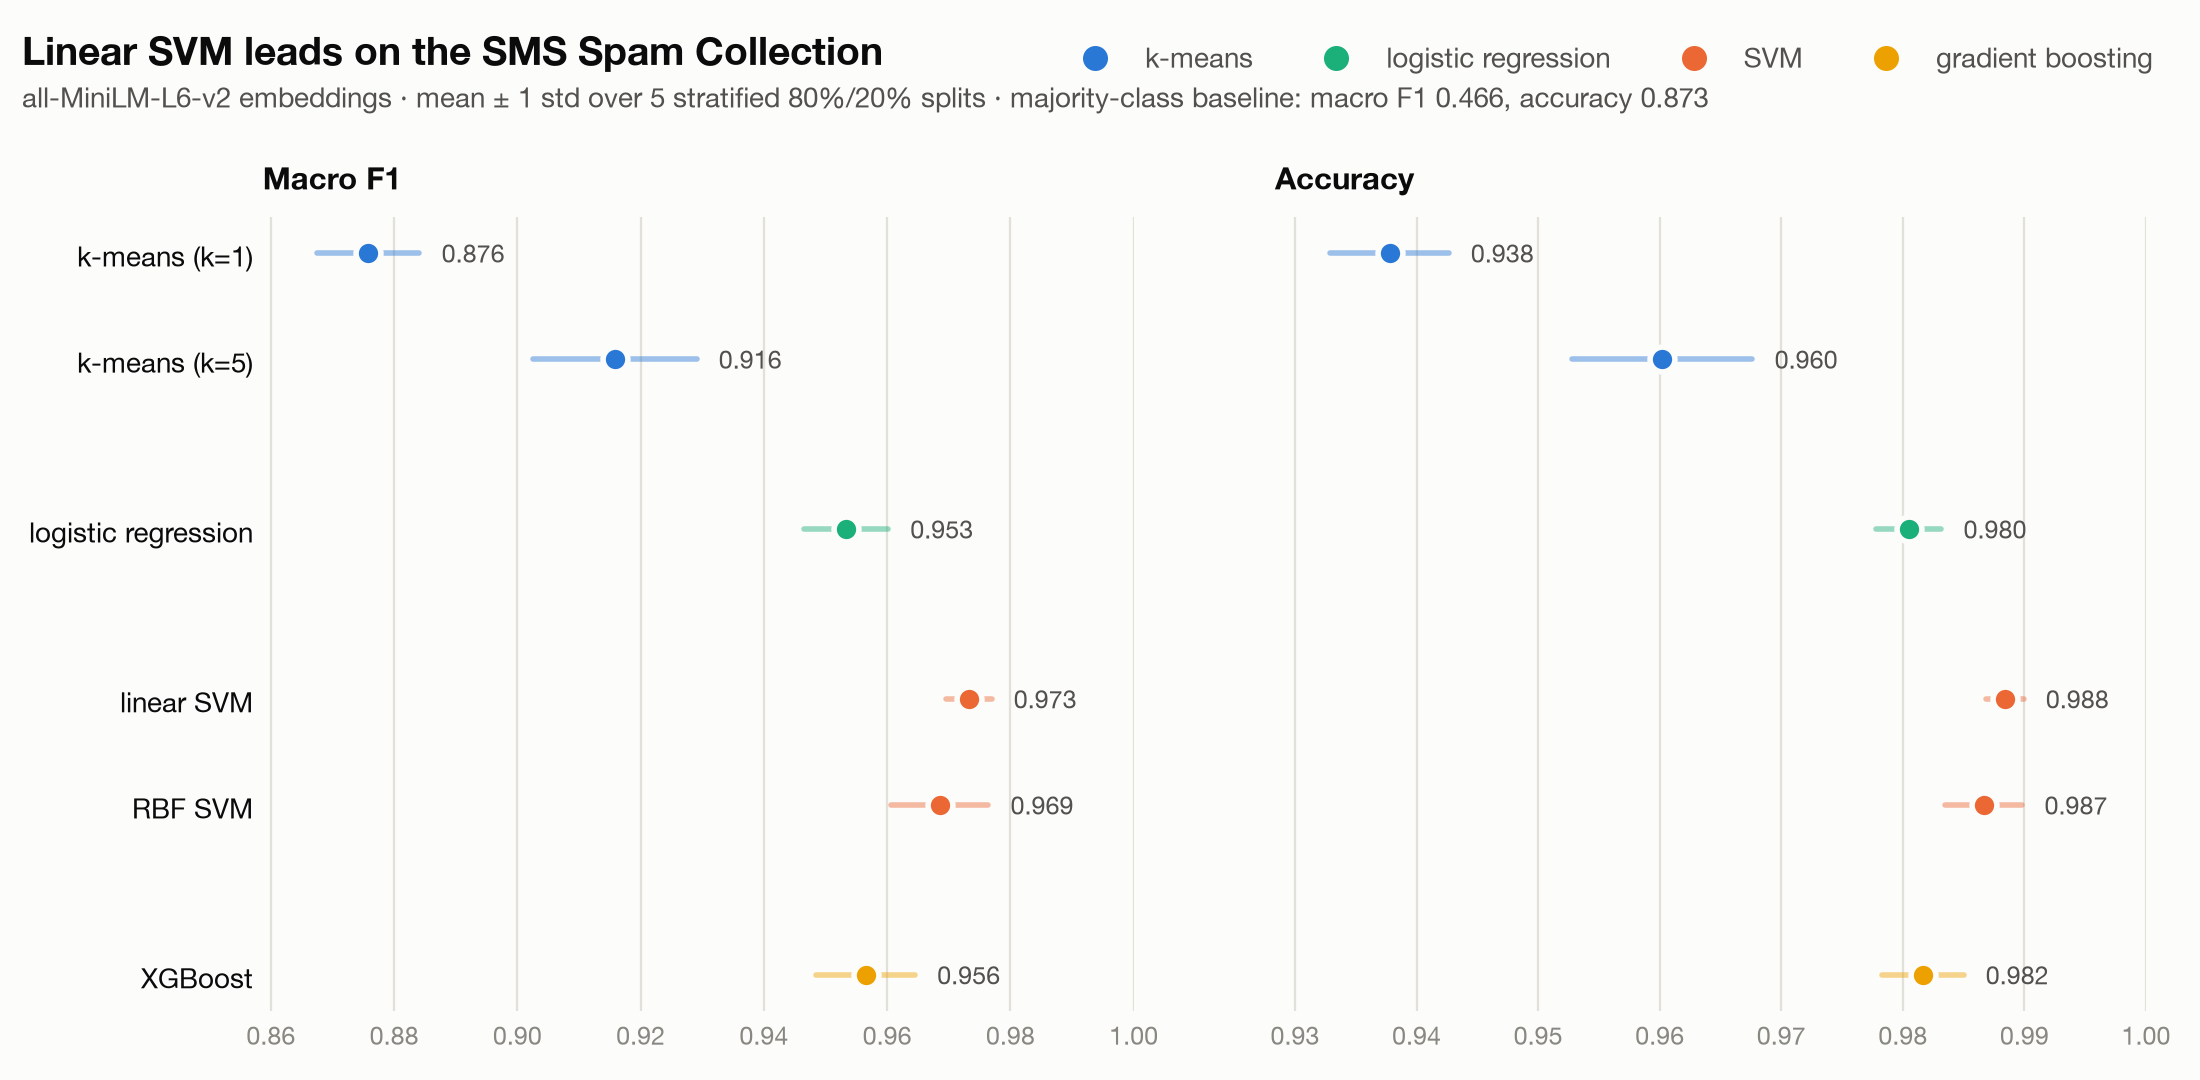
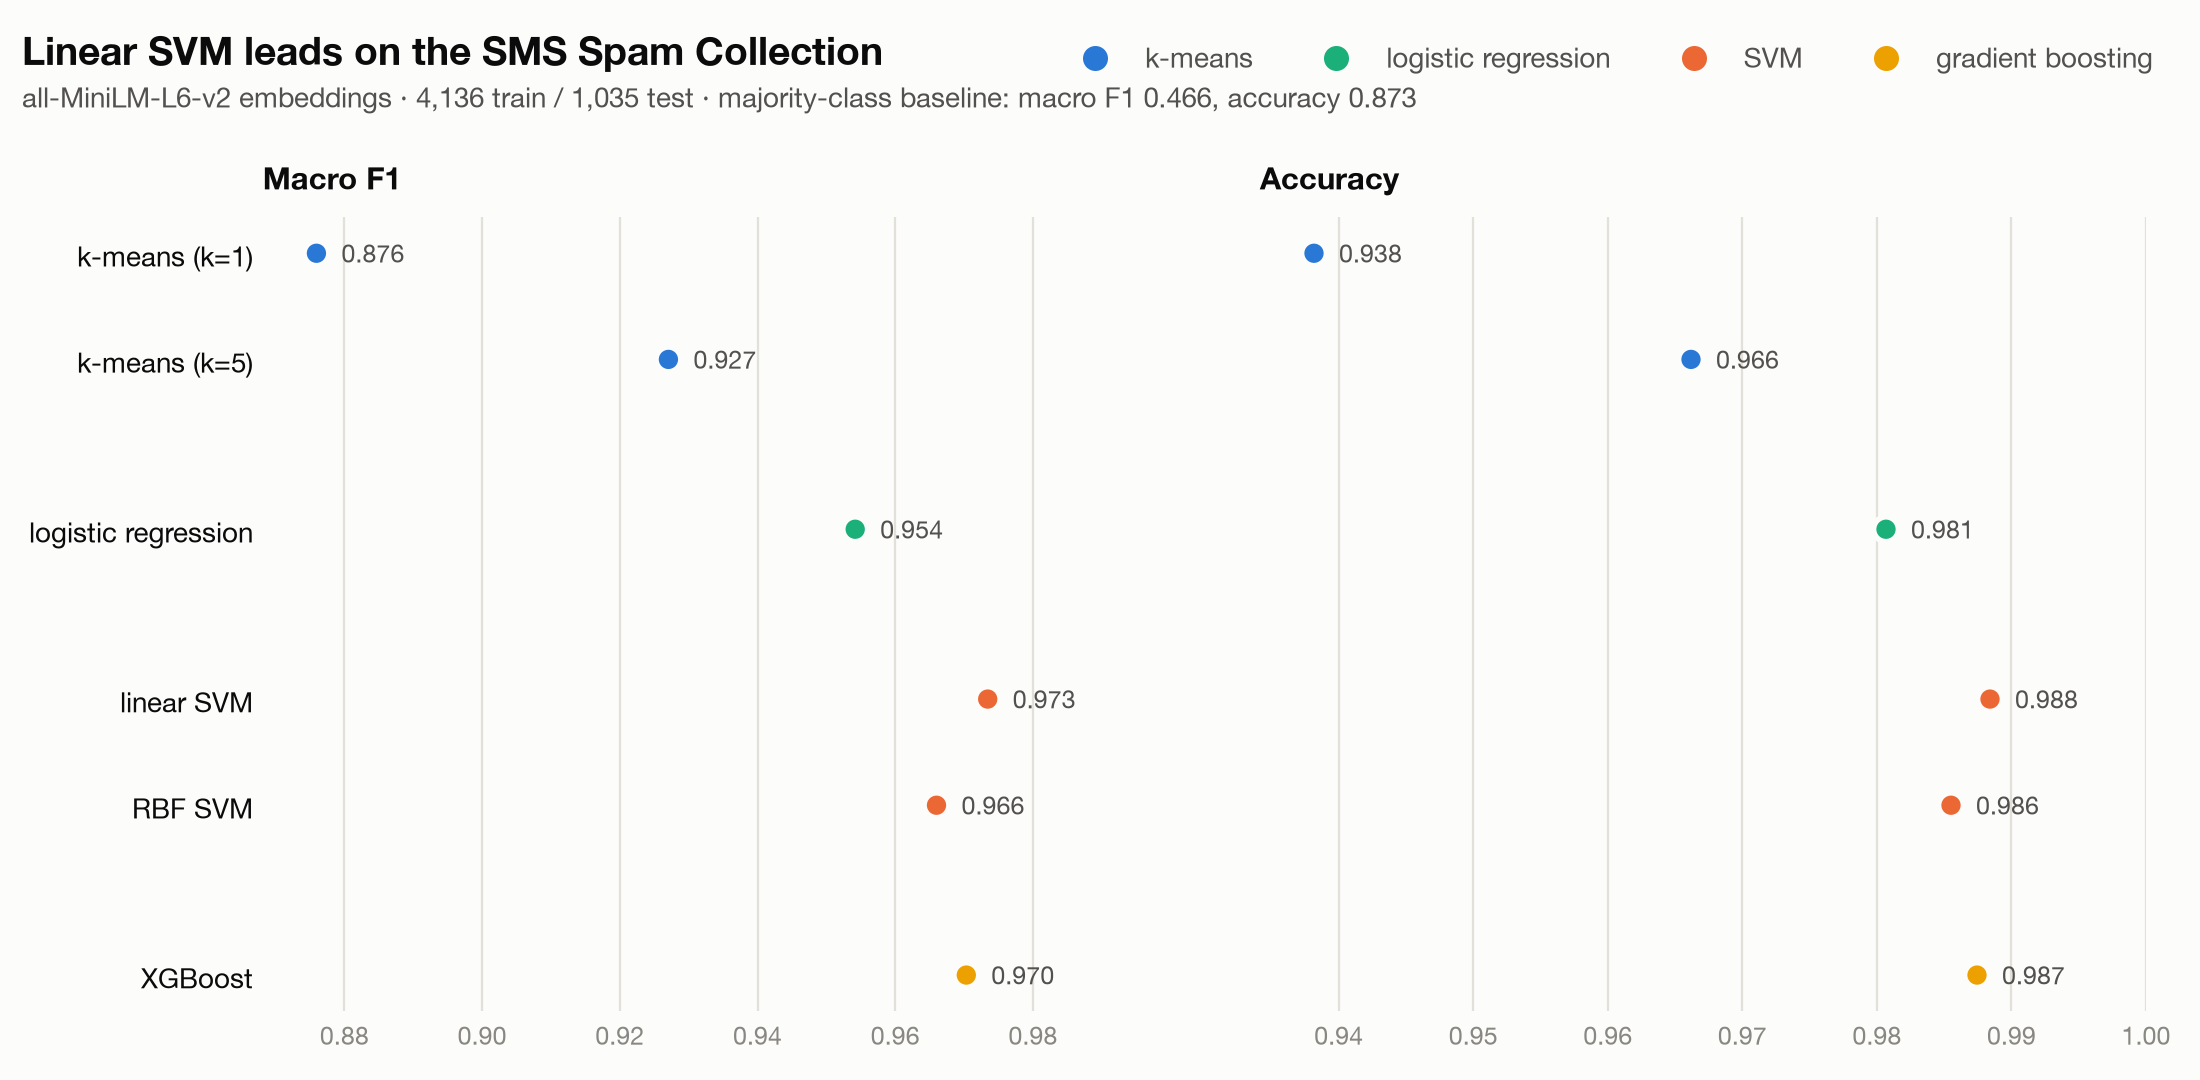
Add Emotion dataset and fixed train/test splits
- Each dataset's download.py now writes data/train.parquet and
  data/test.parquet with text and label columns, so experiment.py only
  loads files: no deduplication or splitting in the experiment.
- SMS Spam: duplicates are dropped and a stratified 80/20 split (seed 0)
  is made at download time.
- Emotion (dair-ai/emotion): trains on its 16k train split and tests on
  its validation and test splits combined (4k).
- experiment.py evaluates one fixed split per dataset, so the repeated
  splits, --seeds, --test-size and std whiskers are gone.
- README TODO: separate plotting from experiments.

diff --git a/experiment.py b/experiment.py
@@ -1,19 +1,19 @@
 """Compare classifiers on a text classification dataset.
 
-For each seed, makes a stratified train/test split, trains every classifier in
-`make_classifiers` on the same embeddings, and scores it on the test set.
-Writes per-split scores to results/<dataset>_<embedder>.csv and a summary plot
-(mean ± std over splits) to plots/<dataset>_<embedder>.png.
+Trains every classifier in `make_classifiers` on the dataset's train split (all
+sharing one embedding pass) and scores it on the test split. Writes scores to
+results/<dataset>_<embedder>.csv and a plot to plots/<dataset>_<embedder>.png.
 
-    uv run experiment.py                                   # sms_spam, minilm, seeds 0-4
-    uv run experiment.py --dataset sms_spam --embedder minilm --test-size 0.2 --seeds 0 1 2
+    uv run experiment.py                                   # sms_spam, minilm
+    uv run experiment.py --dataset emotion --embedder minilm
 
-To add a dataset, write a loader returning a Dataset and register it in DATASETS.
-To add a classifier, add it to make_classifiers.
+Each dataset lives in datasets/<name>/, whose download.py writes data/train.parquet
+and data/test.parquet with `text` and `label` columns. To add a dataset, add that
+folder and register its plot title in DATASETS. To add a classifier, add it to
+make_classifiers.
 """
 
 import argparse
-import csv
 import sys
 import time
 from collections import Counter
@@ -28,7 +28,6 @@ import matplotlib.pyplot as plt
 import numpy as np
 import pandas as pd
 from sklearn.metrics import accuracy_score, f1_score
-from sklearn.model_selection import train_test_split
 from tqdm import tqdm
 
 ROOT = Path(__file__).resolve().parent
@@ -44,29 +43,25 @@ from xgboost_classifier import XGBoostClassifier  # noqa: E402
 
 # --- Datasets -----------------------------------------------------------------
 
+DATASETS: dict[str, str] = {  # folder name under datasets/ -> title used in plots
+    "sms_spam": "SMS Spam Collection",
+    "emotion": "Emotion dataset",
+}
+
 
 @dataclass(frozen=True)
-class Dataset:
-    name: str  # used in file names
-    title: str  # used in plots
+class Split:
     texts: list[str]
     labels: list[Hashable]
 
 
-def load_sms_spam() -> Dataset:
-    path = ROOT / "datasets/sms_spam/data/sms_spam.parquet"
+def load_split(dataset: str, split: str) -> Split:
+    path = ROOT / "datasets" / dataset / "data" / f"{split}.parquet"
     if not path.exists():
-        sys.exit(f"{path} not found; run: uv run datasets/sms_spam/download.py")
-    # 403 exact duplicate messages (none with conflicting labels) would otherwise
-    # leak between train and test splits.
-    df = pd.read_parquet(path).drop_duplicates("sms")
-    labels = df["label"].map({0: "ham", 1: "spam"}).tolist()
-    return Dataset("sms_spam", "SMS Spam Collection", df["sms"].tolist(), labels)
+        sys.exit(f"{path} not found; run: uv run datasets/{dataset}/download.py")
+    df = pd.read_parquet(path)
+    return Split(df["text"].tolist(), df["label"].tolist())
 
-
-DATASETS: dict[str, Callable[[], Dataset]] = {
-    "sms_spam": load_sms_spam,
-}
 
 # --- Embedders and classifiers ------------------------------------------------
 
@@ -101,7 +96,7 @@ def family(clf: TextClassifier) -> str:
 
 
 class CachedEmbedder(TextEmbedder):
-    """Memoizes another embedder in memory, so all classifiers and splits share one embedding pass."""
+    """Memoizes another embedder in memory, so all classifiers share one embedding pass."""
 
     def __init__(self, inner: TextEmbedder):
         self.inner = inner
@@ -128,52 +123,33 @@ class CachedEmbedder(TextEmbedder):
 # --- Experiment ---------------------------------------------------------------
 
 
-def run(dataset: Dataset, embedder: TextEmbedder, test_size: float, seeds: list[int]) -> list[dict]:
-    """One row per (seed, classifier), plus a majority-class baseline row per seed."""
-    print(f"{dataset.name}: {len(dataset.texts)} texts, classes {dict(Counter(dataset.labels))}")
+def score(name: str, family: str, y_true: list, y_pred: list, fit_seconds: float, config_hash: str) -> dict:
+    return {
+        "classifier": name,
+        "family": family,
+        "macro_f1": f1_score(y_true, y_pred, average="macro"),
+        "accuracy": accuracy_score(y_true, y_pred),
+        "fit_seconds": fit_seconds,
+        "config_hash": config_hash,
+    }
+
+
+def run(train: Split, test: Split, embedder: TextEmbedder) -> pd.DataFrame:
+    """One row per classifier, plus a majority-class baseline, indexed by classifier name."""
     embedder = CachedEmbedder(embedder)
-    embedder.embed(dataset.texts)
+    embedder.embed(train.texts + test.texts)
 
-    rows = []
-    n_classifiers = len(make_classifiers(embedder))
-    bar = tqdm(total=len(seeds) * n_classifiers, desc="training", unit="fit")
-    for seed in seeds:
-        X_train, X_test, y_train, y_test = train_test_split(
-            dataset.texts, dataset.labels, test_size=test_size, stratify=dataset.labels, random_state=seed
-        )
-        majority = [Counter(y_train).most_common(1)[0][0]] * len(y_test)
-        rows.append({
-            "seed": seed, "classifier": "majority class", "family": "baseline",
-            "macro_f1": f1_score(y_test, majority, average="macro"),
-            "accuracy": accuracy_score(y_test, majority), "fit_seconds": 0.0, "config_hash": "",
-        })
-        for name, clf in make_classifiers(embedder).items():
-            bar.set_postfix_str(f"seed {seed} · {name}")
-            start = time.perf_counter()
-            clf.fit(X_train, y_train)
-            fit_seconds = time.perf_counter() - start
-            pred = clf.predict(X_test)
-            rows.append({
-                "seed": seed, "classifier": name, "family": family(clf),
-                "macro_f1": f1_score(y_test, pred, average="macro"),
-                "accuracy": accuracy_score(y_test, pred),
-                "fit_seconds": fit_seconds, "config_hash": clf.config_hash,
-            })
-            bar.update()
-    bar.close()
-    return rows
-
-
-def summarize(rows: list[dict]) -> pd.DataFrame:
-    df = pd.DataFrame(rows)
-    order = list(dict.fromkeys(df["classifier"]))
-    summary = df.groupby("classifier", sort=False).agg(
-        family=("family", "first"),
-        macro_f1=("macro_f1", "mean"), macro_f1_std=("macro_f1", "std"),
-        accuracy=("accuracy", "mean"), accuracy_std=("accuracy", "std"),
-        fit_seconds=("fit_seconds", "mean"),
-    )
-    return summary.loc[order].fillna({"macro_f1_std": 0.0, "accuracy_std": 0.0})
+    majority = Counter(train.labels).most_common(1)[0][0]
+    rows = [score("majority class", "baseline", test.labels, [majority] * len(test.labels), 0.0, "")]
+    classifiers = make_classifiers(embedder)
+    bar = tqdm(classifiers.items(), desc="training", unit="fit")
+    for name, clf in bar:
+        bar.set_postfix_str(name)
+        start = time.perf_counter()
+        clf.fit(train.texts, train.labels)
+        fit_seconds = time.perf_counter() - start
+        rows.append(score(name, family(clf), test.labels, clf.predict(test.texts), fit_seconds, clf.config_hash))
+    return pd.DataFrame(rows).set_index("classifier")
 
 
 # --- Plot ---------------------------------------------------------------------
@@ -183,11 +159,11 @@ INK, INK_2, MUTED, GRID, SURFACE = "#0b0b0b", "#52514e", "#898781", "#e1e0d9", "
 FAMILY_COLORS = {"k-means": "#2a78d6", "logistic regression": "#1baf7a", "SVM": "#eb6834", "gradient boosting": "#eda100"}
 
 
-def plot(summary: pd.DataFrame, title: str, subtitle: str, path: Path) -> None:
-    """Dot plot of mean macro-F1 and accuracy per classifier, ±1 std whiskers, colored by family."""
-    summary = summary[summary["family"] != "baseline"]
-    names = list(summary.index)
-    families = list(summary["family"])
+def plot(results: pd.DataFrame, title: str, subtitle: str, path: Path) -> None:
+    """Dot plot of macro-F1 and accuracy per classifier, colored by family."""
+    results = results[results["family"] != "baseline"]
+    names = list(results.index)
+    families = list(results["family"])
     # One row per classifier, top to bottom, with an extra gap between families.
     y, pos = [], 0.0
     for i, fam in enumerate(families):
@@ -201,15 +177,14 @@ def plot(summary: pd.DataFrame, title: str, subtitle: str, path: Path) -> None:
     plt.rcParams["font.family"] = ["Helvetica Neue", "Helvetica", "Arial", "DejaVu Sans"]
     fig, axes = plt.subplots(1, 2, figsize=(11, 0.5 * len(names) + 2.4), sharey=True, facecolor=SURFACE)
     for ax, metric, label in zip(axes, ["macro_f1", "accuracy"], ["Macro F1", "Accuracy"]):
-        mean, std = summary[metric].to_numpy(), summary[f"{metric}_std"].to_numpy()
+        values = results[metric].to_numpy()
         ax.set_facecolor(SURFACE)
-        for yi, m, s, c in zip(y, mean, std, colors):
-            ax.plot([m - s, m + s], [yi, yi], color=c, linewidth=2, solid_capstyle="round", alpha=0.45, zorder=2)
-            ax.scatter(m, yi, s=80, color=c, edgecolor=SURFACE, linewidth=2, zorder=3)
-            ax.annotate(f"{m:.3f}", (m + s, yi), xytext=(8, 0), textcoords="offset points",
+        ax.scatter(values, y, s=80, c=colors, edgecolor=SURFACE, linewidth=2, zorder=3)
+        for yi, v in zip(y, values):
+            ax.annotate(f"{v:.3f}", (v, yi), xytext=(9, 0), textcoords="offset points",
                         va="center", fontsize=9, color=INK_2)
 
-        lo, hi = (mean - std).min(), (mean + std).max()
+        lo, hi = values.min(), values.max()
         pad = (hi - lo) * 0.08
         ax.set_xlim(lo - pad, min(1.0, hi + 3 * pad) if hi + 3 * pad > 1.0 else hi + 3 * pad)
         ax.set_title(label, loc="left", fontsize=11, color=INK, fontweight="bold", pad=10)
@@ -239,33 +214,29 @@ def main() -> None:
     parser = argparse.ArgumentParser(description=__doc__, formatter_class=argparse.RawDescriptionHelpFormatter)
     parser.add_argument("--dataset", choices=DATASETS, default="sms_spam")
     parser.add_argument("--embedder", choices=EMBEDDERS, default="minilm")
-    parser.add_argument("--test-size", type=float, default=0.2)
-    parser.add_argument("--seeds", type=int, nargs="+", default=[0, 1, 2, 3, 4])
     args = parser.parse_args()
 
-    dataset = DATASETS[args.dataset]()
+    train, test = load_split(args.dataset, "train"), load_split(args.dataset, "test")
+    print(f"{args.dataset}: {len(train.texts):,} train / {len(test.texts):,} test, "
+          f"train classes {dict(Counter(train.labels))}")
     embedder = EMBEDDERS[args.embedder]()
-    rows = run(dataset, embedder, args.test_size, args.seeds)
-    summary = summarize(rows)
-    print(summary.round(4).to_string())
+    results = run(train, test, embedder)
+    print(results.round(4).to_string())
 
-    stem = f"{dataset.name}_{args.embedder}"
+    stem = f"{args.dataset}_{args.embedder}"
     (ROOT / "results").mkdir(exist_ok=True)
     (ROOT / "plots").mkdir(exist_ok=True)
-    with (ROOT / "results" / f"{stem}.csv").open("w", newline="") as f:
-        writer = csv.DictWriter(f, fieldnames=rows[0].keys(), lineterminator="\n")
-        writer.writeheader()
-        writer.writerows(rows)
+    results.to_csv(ROOT / "results" / f"{stem}.csv", lineterminator="\n")
 
-    best = summary[summary["family"] != "baseline"]["macro_f1"].idxmax()
+    best = results[results["family"] != "baseline"]["macro_f1"].idxmax()
     model_id = embedder.config().get("model_id", args.embedder).split("/")[-1]
-    baseline = summary.loc["majority class"]
+    baseline = results.loc["majority class"]
     plot(
-        summary,
-        title=f"{best[0].upper()}{best[1:]} leads on the {dataset.title}",
-        subtitle=(f"{model_id} embeddings · mean ± 1 std over {len(args.seeds)} stratified "
-                  f"{1 - args.test_size:.0%}/{args.test_size:.0%} splits · majority-class baseline: "
-                  f"macro F1 {baseline['macro_f1']:.3f}, accuracy {baseline['accuracy']:.3f}"),
+        results,
+        title=f"{best[0].upper()}{best[1:]} leads on the {DATASETS[args.dataset]}",
+        subtitle=(f"{model_id} embeddings · {len(train.texts):,} train / {len(test.texts):,} test · "
+                  f"majority-class baseline: macro F1 {baseline['macro_f1']:.3f}, "
+                  f"accuracy {baseline['accuracy']:.3f}"),
         path=ROOT / "plots" / f"{stem}.png",
     )
     print(f"wrote results/{stem}.csv and plots/{stem}.png")

diff --git a/datasets/sms_spam/download.py b/datasets/sms_spam/download.py
@@ -1,22 +1,26 @@
-"""Download the SMS Spam Collection from Hugging Face into ./data/."""
+"""Download the SMS Spam Collection from Hugging Face and write data/train.parquet and data/test.parquet."""
 
 from pathlib import Path
 
 from datasets import load_dataset
+from sklearn.model_selection import train_test_split
 
 HF_ID = "ucirvine/sms_spam"
 OUT_DIR = Path(__file__).resolve().parent / "data"
+TEST_SIZE = 0.2
+SEED = 0
 
 
 def main() -> None:
-    ds = load_dataset(HF_ID, split="train")  # the only split published
-    OUT_DIR.mkdir(exist_ok=True)
-    out = OUT_DIR / "sms_spam.parquet"
-    ds.to_parquet(out)
+    df = load_dataset(HF_ID, split="train").to_pandas()  # the only split published
+    df = df.drop_duplicates("sms").rename(columns={"sms": "text"})
+    df["label"] = df["label"].map({0: "ham", 1: "spam"})
+    train, test = train_test_split(df[["text", "label"]], test_size=TEST_SIZE, stratify=df["label"], random_state=SEED)
 
-    n_spam = sum(ds["label"])
-    print(f"Saved {len(ds)} rows to {out}")
-    print(f"ham: {len(ds) - n_spam}, spam: {n_spam}")
+    OUT_DIR.mkdir(exist_ok=True)
+    for name, part in (("train", train), ("test", test)):
+        part.to_parquet(OUT_DIR / f"{name}.parquet", index=False)
+        print(f"{name}: {len(part)} rows {part['label'].value_counts().to_dict()}")
 
 
 if __name__ == "__main__":

diff --git a/datasets/emotion/download.py b/datasets/emotion/download.py
@@ -1,0 +1,26 @@
+"""Download the Emotion dataset from Hugging Face and write data/train.parquet and data/test.parquet."""
+
+from pathlib import Path
+
+import pandas as pd
+from datasets import load_dataset
+
+HF_ID = "dair-ai/emotion"
+OUT_DIR = Path(__file__).resolve().parent / "data"
+PARTS = {"train": ["train"], "test": ["validation", "test"]}
+
+
+def main() -> None:
+    splits = load_dataset(HF_ID, "split")
+    names = dict(enumerate(splits["train"].features["label"].names))
+
+    OUT_DIR.mkdir(exist_ok=True)
+    for name, sources in PARTS.items():
+        part = pd.concat([splits[s].to_pandas() for s in sources], ignore_index=True)
+        part["label"] = part["label"].map(names)
+        part[["text", "label"]].to_parquet(OUT_DIR / f"{name}.parquet", index=False)
+        print(f"{name}: {len(part)} rows {part['label'].value_counts().to_dict()}")
+
+
+if __name__ == "__main__":
+    main()

diff --git a/datasets/sms_spam/README.md b/datasets/sms_spam/README.md
@@ -12,17 +12,19 @@
 uv run datasets/sms_spam/download.py
 ```
 
-This writes `data/sms_spam.parquet` next to this README (git-ignored).
+This writes `data/train.parquet` and `data/test.parquet` next to this README
+(git-ignored).
 
 ## Format
 
-| column  | type | meaning              |
-|---------|------|----------------------|
-| `sms`   | str  | message text         |
-| `label` | int  | 0 = ham, 1 = spam    |
+| column  | type | meaning          |
+|---------|------|------------------|
+| `text`  | str  | message text     |
+| `label` | str  | `ham` or `spam`  |
 
-There is only a `train` split; make your own stratified train/test split.
+The source publishes no split, so `download.py` makes one:
 
-The raw file has 403 exact duplicate messages (none with conflicting labels).
-`experiment.py` drops them before splitting, leaving 5,171 messages (653 spam),
-so copies of a message can't land in both train and test.
+- It drops the 403 exact duplicate messages (none have conflicting labels), so
+  copies of a message can't land in both train and test. 5,171 messages remain
+  (653 spam).
+- It makes a stratified 80/20 split with seed 0: 4,136 train, 1,035 test.

diff --git a/datasets/emotion/README.md b/datasets/emotion/README.md
@@ -1,0 +1,29 @@
+# Emotion
+
+20,000 English tweets labeled with one of six emotions.
+
+- Source: [`dair-ai/emotion`](https://huggingface.co/datasets/dair-ai/emotion) on Hugging Face (`split` config)
+- Original: Saravia et al., "CARER: Contextualized Affect Representations for Emotion Recognition", EMNLP 2018
+
+## Download
+
+```sh
+uv run datasets/emotion/download.py
+```
+
+This writes `data/train.parquet` and `data/test.parquet` next to this README
+(git-ignored).
+
+## Format
+
+| column  | type | meaning                                                      |
+|---------|------|--------------------------------------------------------------|
+| `text`  | str  | tweet text (lowercased, tokenized by the dataset authors)    |
+| `label` | str  | `sadness`, `joy`, `love`, `anger`, `fear` or `surprise`      |
+
+`download.py` keeps the dataset's own split: its 16,000 `train` rows go to
+`train.parquet`, and its `validation` and `test` rows (2,000 each) are combined
+into `test.parquet` (4,000).
+
+Classes are imbalanced: joy 6,761, sadness 5,797, anger 2,709, fear 2,373,
+love 1,641, surprise 719.

diff --git a/README.md b/README.md
@@ -16,3 +16,4 @@ pass it per command or set it once for your shell:
 
 - [ ] Professionalism pass over the whole project: comments, docstrings, naming and consistency.
 - [ ] Write the story behind this repo, below the plot.
+- [ ] Make experiments more modular: `experiment.py` should only write a results file, and plotting should be a separate script that reads results files.
